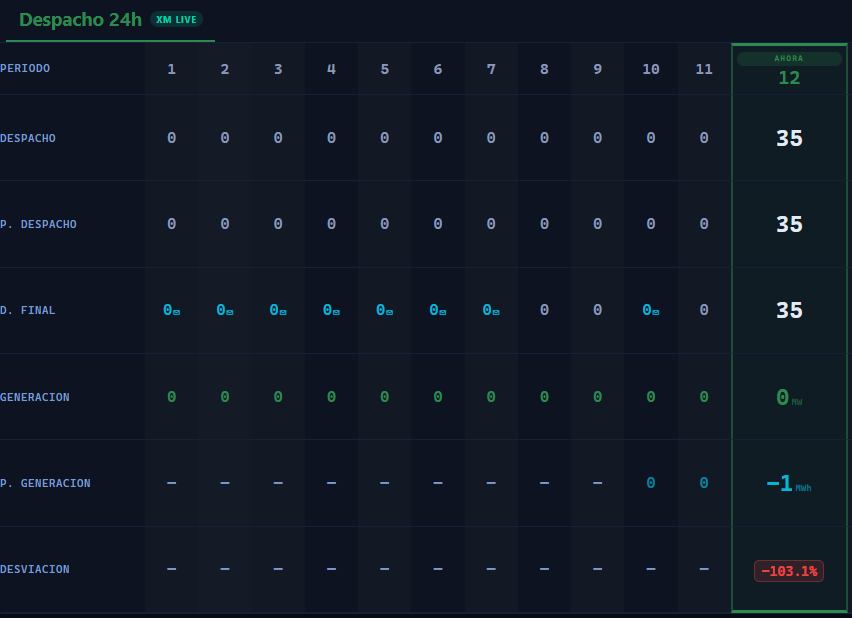
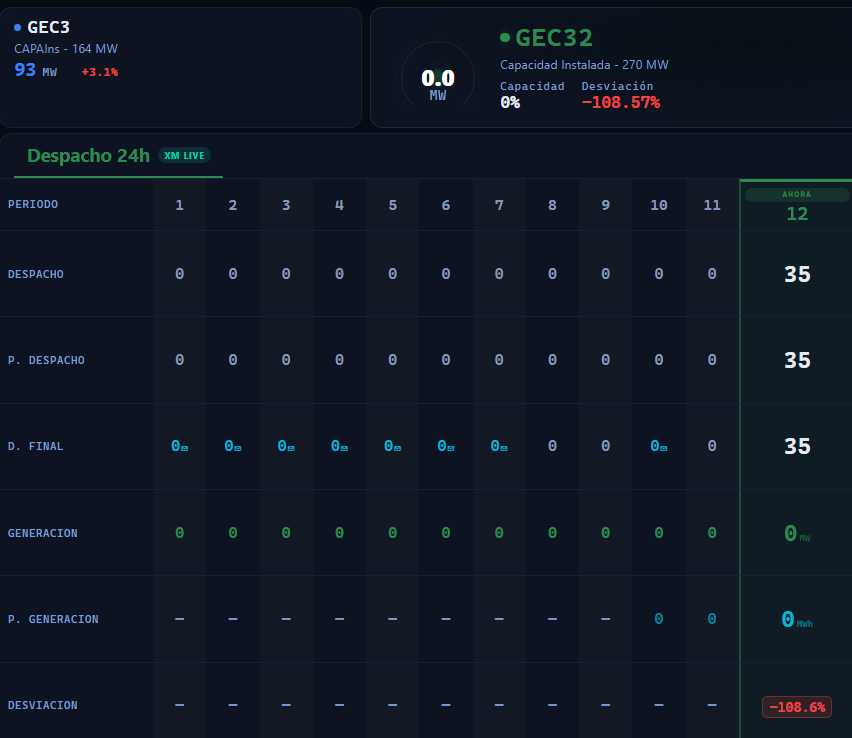
Fix: desviación validado en 0 para valores <0

diff --git a/src/components/UnitCards.jsx b/src/components/UnitCards.jsx
@@ -5,7 +5,7 @@ import { UNITS, //ALL_DATA, calcStats
 } from "../data/units";
 import { MiniGauge } from "./MiniGauge";
 
-function UnitCard({ u, isSel, onSelect, height, realtimeUnit, pmeAccumulated, projection }) {
+function UnitCard({ u, isSel, onSelect, height, realtimeUnit, pmeAccumulated, projection, xmDispatch }) {
   // Generación actual (PME acumulado del periodo actual)
   const pmeGen = Math.max(0, pmeAccumulated?.[u.id] ?? 0);
   const currentMW = realtimeUnit?.valueMW != null ? Math.max(0, realtimeUnit.valueMW) : pmeGen;
@@ -17,8 +17,17 @@ function UnitCard({ u, isSel, onSelect, height, realtimeUnit, pmeAccumulated, pr
   [currentMW, maxMW]
   );
 
-  // Desviación: lógica VB6 (proyección a fin de hora vs redespacho), calculada en el backend
-  const dev = projection?.[u.id]?.deviation ?? 0;
+  // Desviación: lógica VB6 (proyección a fin de hora vs redespacho), calculada en el backend.
+  // Recalculamos con la proyección clamped a >=0 para evitar desviaciones espurias por
+  // picos negativos del PME (consistente con la generación que también se clampa a 0).
+  const currentIdx = new Date(new Date().toLocaleString("en-US", { timeZone: "America/Bogota" })).getHours();
+  const redespacho = xmDispatch?.[u.id]?.redespacho?.[currentIdx];
+  const rawProj = projection?.[u.id]?.projection;
+  let dev = projection?.[u.id]?.deviation ?? 0;
+  if (rawProj != null && redespacho != null && redespacho > 0) {
+    const clampedProj = Math.max(0, rawProj);
+    dev = ((clampedProj - redespacho) / redespacho) * 100;
+  }
 
   return (
     <div onClick={() => onSelect(isSel ? null : u.id)} style={{
@@ -65,7 +74,7 @@ function UnitCard({ u, isSel, onSelect, height, realtimeUnit, pmeAccumulated, pr
   );
 }
 
-export function UnitCards({ selected, onSelect, height, realtimeUnits = [], pmeAccumulated, projection }) {
+export function UnitCards({ selected, onSelect, height, realtimeUnits = [], pmeAccumulated, projection, xmDispatch }) {
   return (
     <div style={{ display: "flex", gap: 8, height }}>
       {UNITS.map(u => (
@@ -78,6 +87,7 @@ export function UnitCards({ selected, onSelect, height, realtimeUnits = [], pmeA
           realtimeUnit={realtimeUnits.find(r => r.id === u.id) ?? null}
           pmeAccumulated={pmeAccumulated}
           projection={projection}
+          xmDispatch={xmDispatch}
         />
       ))}
     </div>

diff --git a/src/components/Table.jsx b/src/components/Table.jsx
@@ -62,7 +62,15 @@ function useTableData(unitId, xmDispatch, pmeAccumulated, completedPeriods, desp
     if (isFuture) {
       dev = null;
     } else if (isCurrent) {
-      dev = liveProjection?.deviation ?? null;
+      // Recompute deviation using projection clamped to >=0 (PME negative spikes
+      // would otherwise yield bogus deviations even when generation is 0).
+      const rawProj = liveProjection?.projection;
+      if (rawProj != null && redespacho > 0) {
+        const clampedProj = Math.max(0, rawProj);
+        dev = ((clampedProj - redespacho) / redespacho) * 100;
+      } else {
+        dev = liveProjection?.deviation ?? null;
+      }
     } else {
       const histEntry = unitDesvHist[periodo];
       if (histEntry?.desviacion_pct != null) {

diff --git a/src/Dashboard.jsx b/src/Dashboard.jsx
@@ -83,7 +83,7 @@ export default function Dashboard() {
 
       {/* Content */}
       <div style={{flex:1,padding:px,display:"flex",flexDirection:"column",gap,overflow:"hidden",minHeight:0}}>
-        <UnitCards selected={sel} onSelect={id=>setSel(id||"GEC3")} height={unitRowH} realtimeUnits={rtUnits} pmeAccumulated={accumulated} projection={projection}/>
+        <UnitCards selected={sel} onSelect={id=>setSel(id||"GEC3")} height={unitRowH} realtimeUnits={rtUnits} pmeAccumulated={accumulated} projection={projection} xmDispatch={xmDispatch}/>
 
         <div style={{flex:1,display:"flex",gap,minHeight:0}}>
           <div style={{flex:showChart?"60 1 0":"80 1 0",minWidth:0,transition:"flex 0.3s ease"}}>
